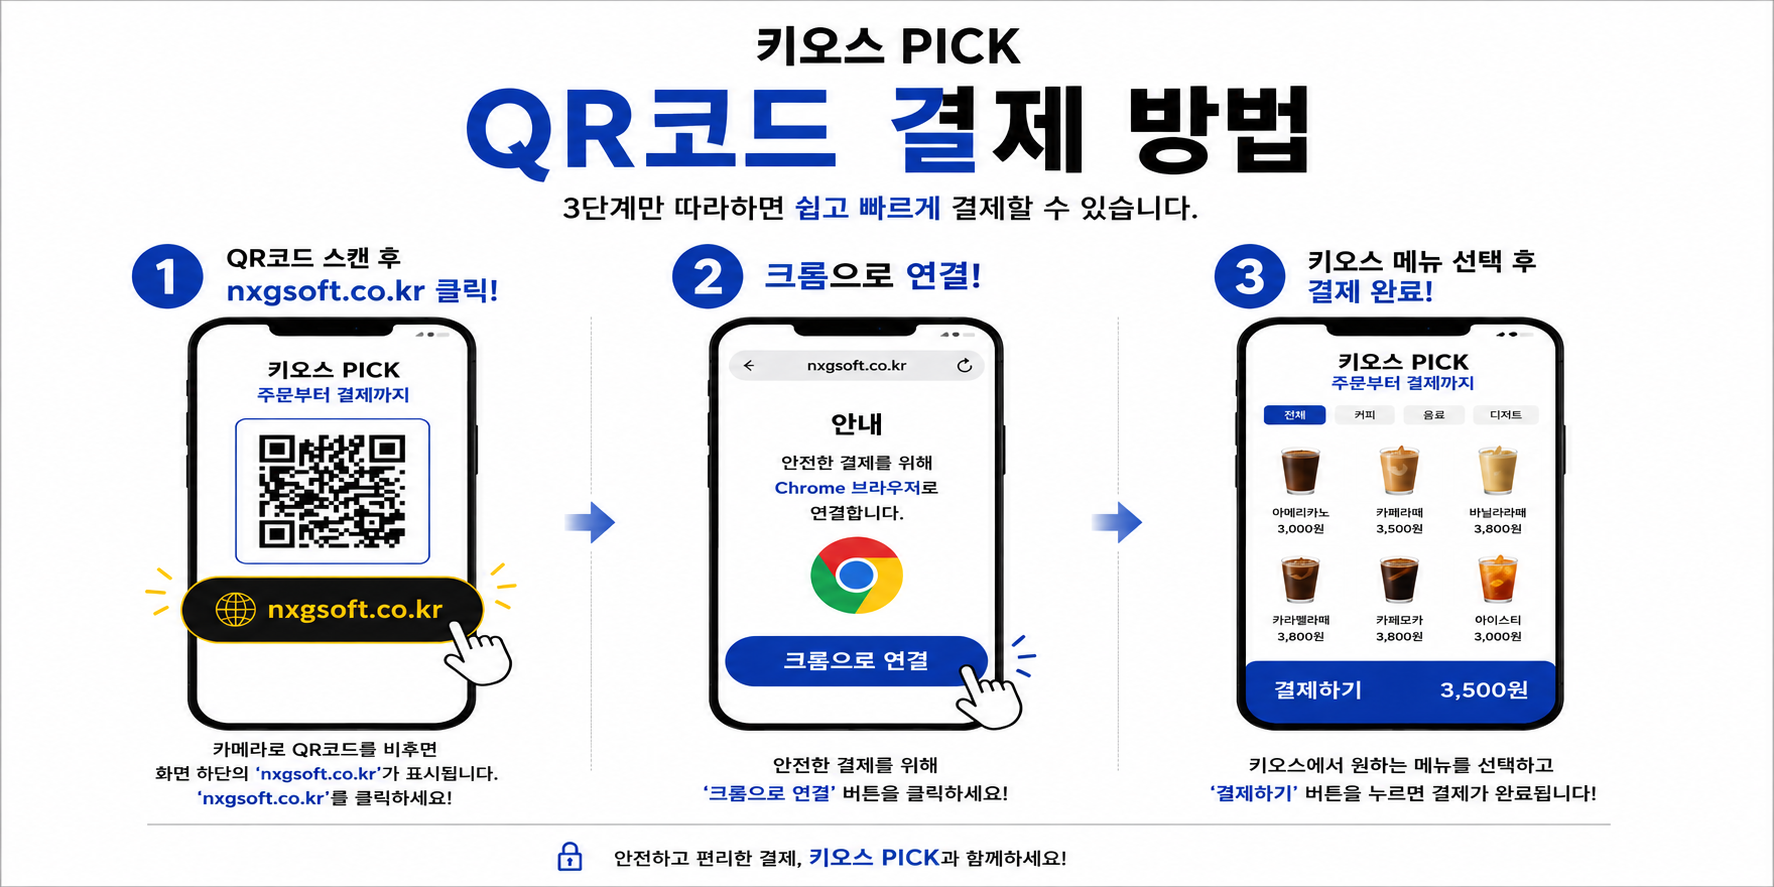
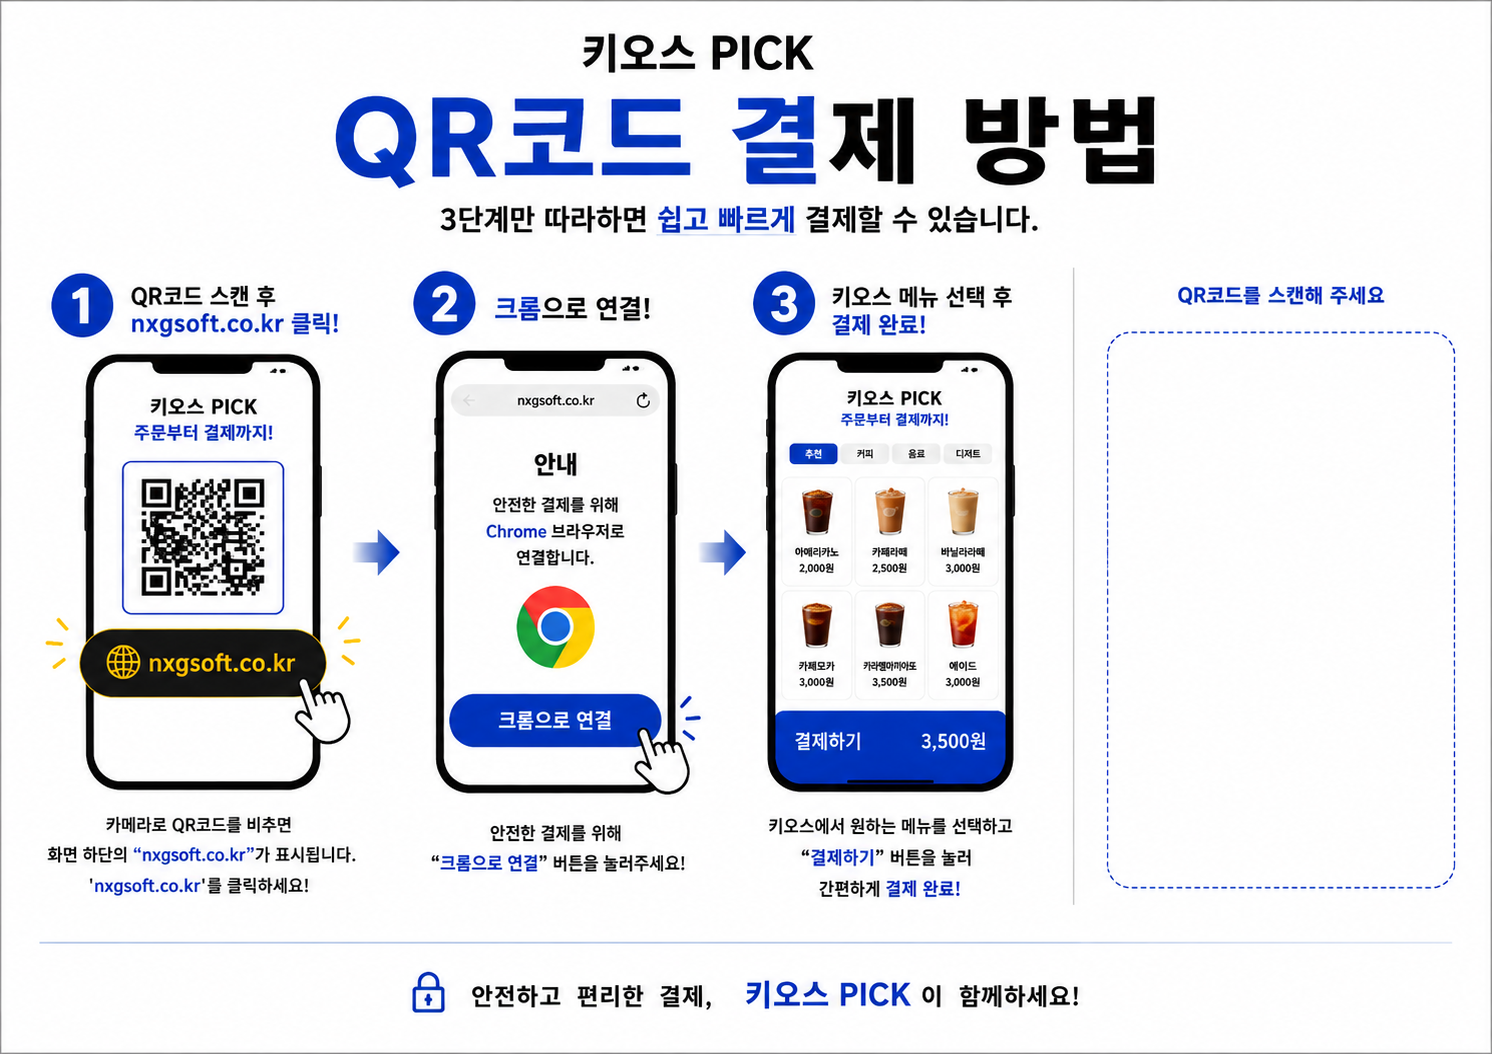
update QR print poster landscape layout

Changed region(s): [[0.0308, 0.0304, 0.9249, 1.0], [0.0, 0.9741, 0.0308, 1.0]]

diff --git a/src/style.css b/src/style.css
@@ -8660,3 +8660,205 @@ and (orientation: landscape) {
     object-fit: contain !important;
   }
 }
+@media print {
+  .qr-print-title {
+    display: none !important;
+  }
+
+  #qr-print-area {
+    width: 277mm !important;
+    height: 190mm !important;
+    margin: 0 auto !important;
+    padding: 8mm !important;
+    box-sizing: border-box !important;
+    display: grid !important;
+    grid-template-columns: 1fr 72mm !important;
+    gap: 8mm !important;
+    align-items: center !important;
+  }
+
+  .qr-guide-poster-wrap {
+    width: 100% !important;
+    margin: 0 !important;
+  }
+
+  .qr-guide-poster {
+    width: 100% !important;
+    height: auto !important;
+    display: block !important;
+  }
+
+  .qr-print-main {
+    margin: 0 !important;
+    padding: 0 !important;
+    border: 0 !important;
+    display: flex !important;
+    flex-direction: column !important;
+    align-items: center !important;
+    justify-content: center !important;
+  }
+
+  .merchant-qr-box {
+    width: 68mm !important;
+    height: 68mm !important;
+    margin: 0 auto !important;
+    padding: 2mm !important;
+  }
+
+  .merchant-qr-box canvas {
+    width: 100% !important;
+    height: 100% !important;
+  }
+
+  .qr-print-message {
+    margin-top: 4mm !important;
+    font-size: 13pt !important;
+    text-align: center !important;
+  }
+
+  @page {
+    size: A4 landscape;
+    margin: 0;
+  }
+}
+/* =========================================
+   PICK QR - A4 가로 인쇄 최종
+   안내 이미지 위 QR 빈자리에 실제 QR 배치
+   ========================================= */
+
+   @media print {
+
+    @page {
+      size: A4 landscape;
+      margin: 0;
+    }
+  
+    html,
+    body {
+      width: 297mm !important;
+      height: 210mm !important;
+      margin: 0 !important;
+      padding: 0 !important;
+      background: #fff !important;
+    }
+  
+    body * {
+      visibility: hidden !important;
+    }
+  
+    #qr-print-area,
+    #qr-print-area * {
+      visibility: visible !important;
+    }
+  
+    #qr-print-area {
+      position: absolute !important;
+      left: 0 !important;
+      top: 0 !important;
+  
+      width: 297mm !important;
+      height: 210mm !important;
+  
+      margin: 0 !important;
+      padding: 0 !important;
+  
+      border: 0 !important;
+      border-radius: 0 !important;
+      box-shadow: none !important;
+  
+      display: block !important;
+      overflow: hidden !important;
+  
+      background: #fff !important;
+    }
+  
+    /* 안내 포스터를 A4 가로 전체에 배치 */
+    .qr-guide-poster-wrap {
+      position: absolute !important;
+      left: 0 !important;
+      top: 0 !important;
+  
+      width: 297mm !important;
+      height: 210mm !important;
+  
+      margin: 0 !important;
+      padding: 0 !important;
+    }
+  
+    .qr-guide-poster {
+      display: block !important;
+  
+      width: 297mm !important;
+      height: 210mm !important;
+  
+      object-fit: fill !important;
+  
+      margin: 0 !important;
+      padding: 0 !important;
+    }
+  
+    /* 실제 가맹점 QR
+       포스터 오른쪽 빈칸 위에 겹쳐서 배치 */
+    .qr-print-main {
+      position: absolute !important;
+  
+      right: 8mm !important;
+      top: 67mm !important;
+  
+      width: 68mm !important;
+      height: 108mm !important;
+  
+      margin: 0 !important;
+      padding: 0 !important;
+  
+      border: 0 !important;
+      background: transparent !important;
+  
+      display: flex !important;
+      align-items: center !important;
+      justify-content: flex-start !important;
+      flex-direction: column !important;
+  
+      z-index: 10 !important;
+    }
+  
+    .merchant-qr-box {
+      width: 62mm !important;
+      height: 62mm !important;
+  
+      margin: 0 !important;
+      padding: 0 !important;
+  
+      border: 0 !important;
+      border-radius: 0 !important;
+  
+      background: #fff !important;
+  
+      display: flex !important;
+      align-items: center !important;
+      justify-content: center !important;
+  
+      box-sizing: border-box !important;
+    }
+  
+    .merchant-qr-box canvas {
+      display: block !important;
+  
+      width: 60mm !important;
+      height: 60mm !important;
+  
+      max-width: none !important;
+      max-height: none !important;
+    }
+  
+    /* 새 포스터에 문구가 있으므로 기존 문구 제거 */
+    .qr-print-message {
+      display: none !important;
+    }
+  
+    .qr-print-title,
+    .qr-admin-controls,
+    .no-print {
+      display: none !important;
+    }
+  }
